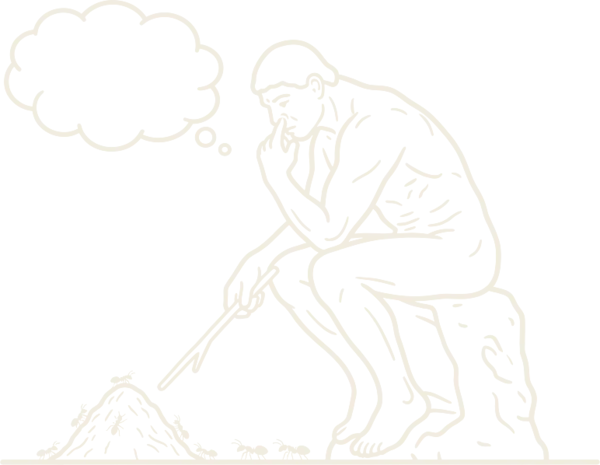
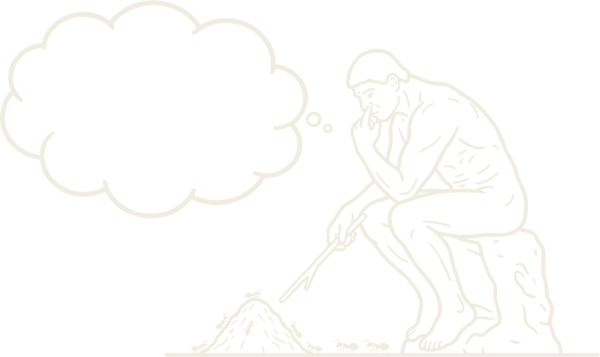
home: swap hero art to v3 with the big thought bubble
v3 is the same thinker with a much larger empty cloud bubble, so the
cycling comments have room to breathe instead of being squeezed.

- scripts/process-home-figure.sh now processes imgs/stupid-thinker3.jpg
  (keeps the -flop, so the bubble lands upper-left).
- Bubble interior measured from the processed knockout: L0.9% T1.6%
  W49.6% H58.1% (vs v2's 34.9% x 30.3%). Overlay moved there and the
  text size bumped to clamp(13px, 4.4cqw, 30px).
- New 900x535 aspect (wider, shorter figure) so it fits phones and the
  anthill shows.

diff --git a/src/routes/+page.svelte b/src/routes/+page.svelte
@@ -85,7 +85,7 @@
 					srcset="/images/home/stupid-thinker-600.webp 600w, /images/home/stupid-thinker-900.webp 900w, /images/home/stupid-thinker-1366.webp 1366w"
 					sizes="(min-width: 1024px) min(36vw, 520px), min(92vw, 600px)"
 					width="900"
-					height="697"
+					height="535"
 					alt=""
 				/>
 				{#key thoughtIndex}
@@ -136,10 +136,10 @@
 	   figure at every width. Content comes from HERO_THOUGHT. */
 	.thought {
 		position: absolute;
-		left: 1.5%;
-		top: 1.1%;
-		width: 34.9%;
-		height: 30.3%;
+		left: 0.9%;
+		top: 1.6%;
+		width: 49.6%;
+		height: 58.1%;
 		display: flex;
 		flex-wrap: wrap;
 		align-content: center;
@@ -147,7 +147,7 @@
 		justify-content: center;
 		gap: 0.35em;
 		overflow: hidden;
-		font-size: clamp(12px, 3.9cqw, 28px);
+		font-size: clamp(13px, 4.4cqw, 30px);
 		line-height: 1.15;
 		letter-spacing: 0.04em;
 		color: var(--paper);
